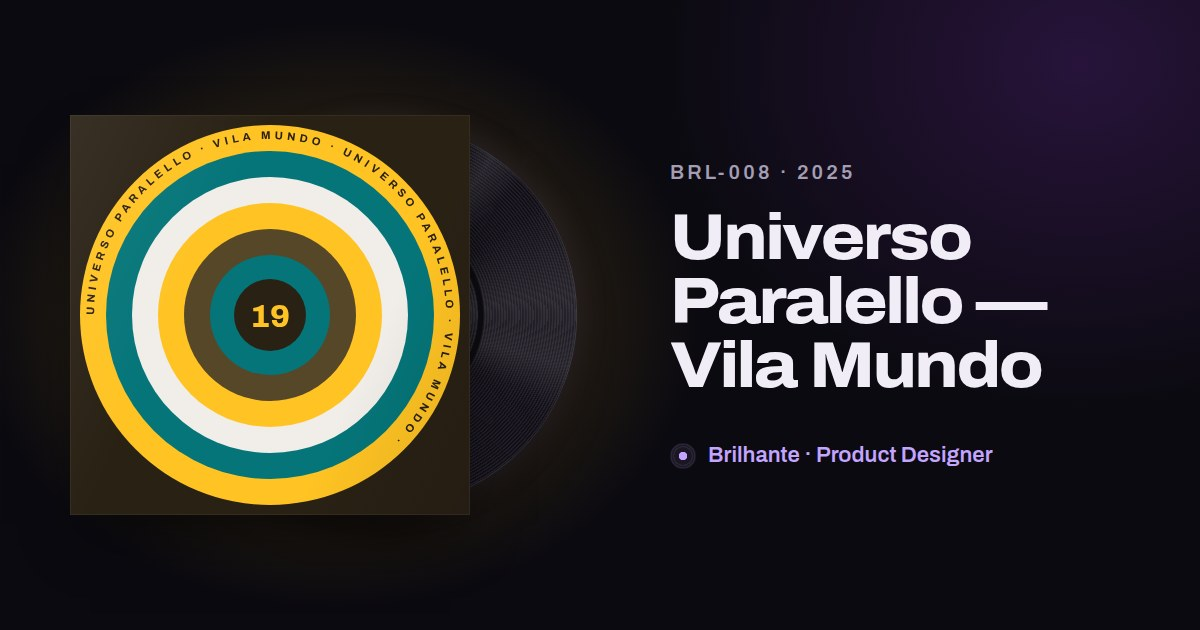
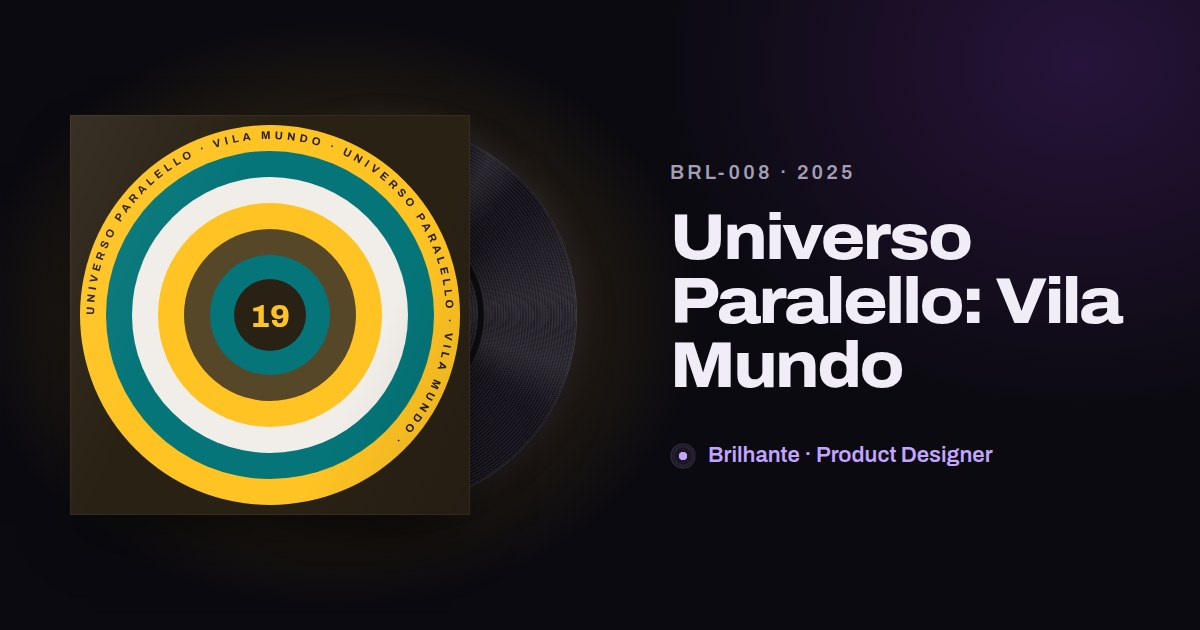
Replace em dashes with colons in titles and labels
Project titles, page titles, intro caption, alt texts and share cards.
Year ranges use a plain hyphen.

Claude-Session: https://claude.ai/code/session_012SheouuZmZrbDEfXkRDrjx

Changed region(s): [[0.555, 0.5429, 0.8942, 0.6333], [0.8017, 0.4222, 0.9558, 0.5127]]

diff --git a/src/data/projects.ts b/src/data/projects.ts
@@ -25,7 +25,7 @@ export interface Project {
   /**
    * Typographic cover to render. See src/components/covers/Cover.astro.
    * To use an image instead, drop a square file in public/covers/ and set
-   * `coverImage: 'covers/<file>.jpg'` — it takes priority over the typographic one.
+   * `coverImage: 'covers/<file>.jpg'`: it takes priority over the typographic one.
    */
   cover: string;
   coverImage?: string;
@@ -291,7 +291,7 @@ export const projects: Project[] = [
     label: '#e9661b',
     link: 'https://stagestagios.com.br/',
     en: {
-      title: 'Stag — Website redesign',
+      title: 'Stag: Website redesign',
       subtitle: 'Giving a 40-year-old brand the modern voice it deserved',
       client: 'Stag, via GIM Digital',
       role: 'Lead Developer and Product Designer, end to end: from briefing to launch',
@@ -311,7 +311,7 @@ export const projects: Project[] = [
       ],
     },
     pt: {
-      title: 'Stag — Redesign do site',
+      title: 'Stag: Redesign do site',
       subtitle: 'Uma voz atual para uma marca com 40 anos de história',
       client: 'Stag, via GIM Digital',
       role: 'Lead Developer e Product Designer, de ponta a ponta: do briefing ao lançamento',
@@ -388,7 +388,7 @@ export const projects: Project[] = [
     label: '#ffc323',
     link: 'https://vilamundo.com/universo-paralello/',
     en: {
-      title: 'Universo Paralello — Vila Mundo',
+      title: 'Universo Paralello: Vila Mundo',
       subtitle: 'Living the festival from the inside',
       client: 'Vila Mundo Hospedagem & Infraestrutura, via GIM Digital',
       role: 'Product Designer, Product Owner',
@@ -408,7 +408,7 @@ export const projects: Project[] = [
       ],
     },
     pt: {
-      title: 'Universo Paralello — Vila Mundo',
+      title: 'Universo Paralello: Vila Mundo',
       subtitle: 'Viver o festival por dentro',
       client: 'Vila Mundo Hospedagem & Infraestrutura, via GIM Digital',
       role: 'Product Designer, Product Owner',
@@ -484,7 +484,7 @@ export const projects: Project[] = [
     cover: 'suindara-app',
     label: '#daa421',
     en: {
-      title: 'Suindara — App',
+      title: 'Suindara: App',
       subtitle: 'Turning everyday people into part of the Cerrado’s real-time monitoring network',
       client: 'Instituto Cerrados',
       role: 'Product Designer',
@@ -504,7 +504,7 @@ export const projects: Project[] = [
       ],
     },
     pt: {
-      title: 'Suindara — App',
+      title: 'Suindara: App',
       subtitle: 'Pessoas comuns como parte da rede de monitoramento do Cerrado em tempo real',
       client: 'Instituto Cerrados',
       role: 'Product Designer',
@@ -532,7 +532,7 @@ export const projects: Project[] = [
     cover: 'suindara-dashboard',
     label: '#daa421',
     en: {
-      title: 'Suindara — Dashboard',
+      title: 'Suindara: Dashboard',
       subtitle: 'Giving program leads a live, readable picture of Cerrado conservation',
       client: 'Instituto Cerrados',
       role: 'Product Designer',
@@ -552,7 +552,7 @@ export const projects: Project[] = [
       ],
     },
     pt: {
-      title: 'Suindara — Dashboard',
+      title: 'Suindara: Dashboard',
       subtitle: 'Uma visão viva e legível da conservação do Cerrado para quem coordena o programa',
       client: 'Instituto Cerrados',
       role: 'Product Designer',

diff --git a/src/data/i18n.ts b/src/data/i18n.ts
@@ -2,7 +2,7 @@ import type { Lang } from './projects';
 
 export const ui = {
   en: {
-    metaTitle: 'Brilhante — Product Designer & UX/UI Designer',
+    metaTitle: 'Brilhante: Product Designer & UX/UI Designer',
     metaDescription:
       'João Victor Brilhante is a product designer and UX/UI designer based in Dublin, designing digital products for legacy systems, tight constraints and high stakes.',
     nav: { work: 'Work', shipped: 'Results', about: 'About', services: 'Services', contact: 'Contact' },
@@ -96,7 +96,7 @@ export const ui = {
     },
   },
   pt: {
-    metaTitle: 'Brilhante — Product Designer e UX/UI Designer',
+    metaTitle: 'Brilhante: Product Designer e UX/UI Designer',
     metaDescription:
       'João Victor Brilhante é product designer e UX/UI designer em Dublin, criando produtos digitais para sistemas legados, prazos apertados e decisões de alto impacto.',
     nav: { work: 'Projetos', shipped: 'Resultados', about: 'Sobre', services: 'Serviços', contact: 'Contato' },
